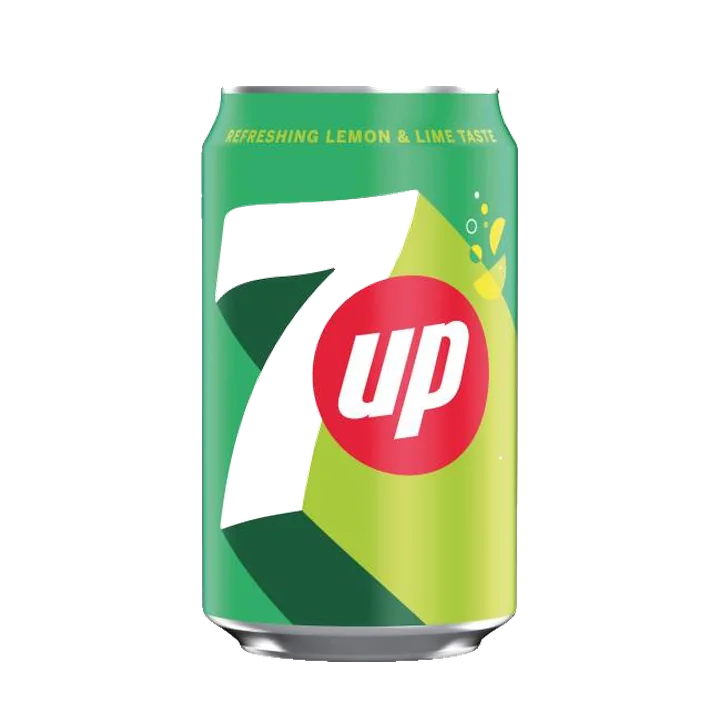
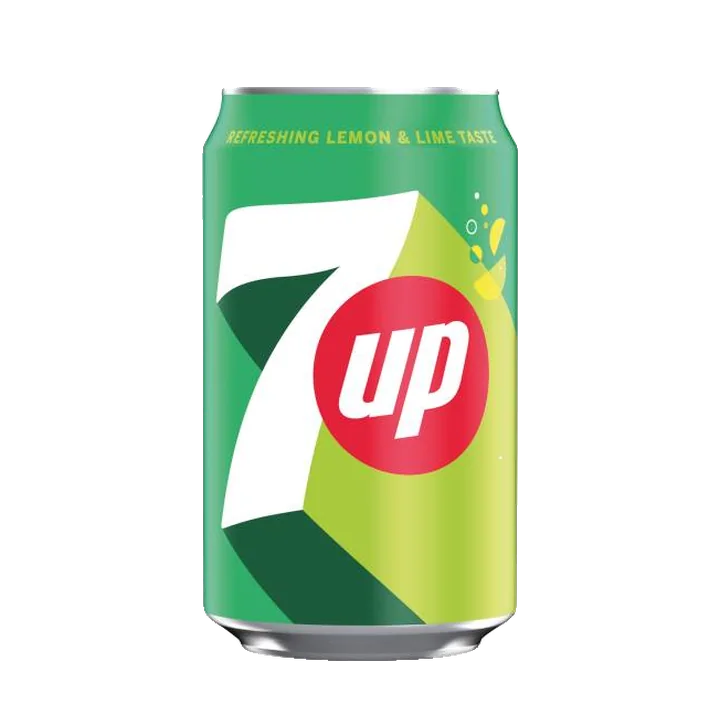
feat: close-up category badges, box meal and water pictures, whole 7up can
- Category badges each show one dish cropped tight (web/public/badges), so
  it fills the round badge; the enamel's gloss sits under the food instead
  of fogging it. Box Meals and Wings get pictures that differ from Burger
  Meals and Boneless.
- Box meals had no photo: each is its burger meal photo with wings in
  front, as the box has chips, a drink and 3 wings.
- Water: a plain bottle with no brand (assets-src/water-bottle.svg).
- 7up: the background remover had taken the can's white "7", so the card
  showed through. The cut-out is filled out to the can's outline.

assets-src/make_extras.py makes all of these.

diff --git a/web/app/components/badges/BadgeGrid.js b/web/app/components/badges/BadgeGrid.js
@@ -1,8 +1,12 @@
 "use client";
 import ShinyBadge from "./ShinyBadge";
 
-// A badge shows the first dish in its category that has a photo.
-const badgeImage = (category) => category.items.find((item) => item.image)?.image ?? null;
+// Each category has its own close-up (assets-src/make_extras.py: one dish,
+// cropped tight so it fills the round badge). A category the owner adds later
+// shows its first dish with a photo.
+const BADGE_ART = new Set(["burgers", "wraps", "bbq", "ribs", "peri-peri", "burger-meals", "box-meals", "wings-chicken", "boneless", "sides"]);
+const badgeImage = (category) =>
+  BADGE_ART.has(category.id) ? `/badges/${category.id}.webp` : (category.items.find((item) => item.image)?.image ?? null);
 
 // Badges sweep one after another, so the grid shimmers rather than flashes.
 const SWEEP_STAGGER_S = 0.45;

diff --git a/web/app/components/badges/ShinyBadge.js b/web/app/components/badges/ShinyBadge.js
@@ -66,11 +66,11 @@ export default function ShinyBadge({ category, image, isActive, onSelect, sweepD
             <img
               src={image}
               alt=""
-              width={720}
-              height={720}
+              width={264}
+              height={264}
               loading="lazy"
               draggable={false}
-              className="relative z-[1] size-[96%] translate-y-[4%] object-contain drop-shadow-[0_4px_5px_rgb(45_28_21/0.35)]"
+              className="relative z-[2] size-full object-contain drop-shadow-[0_3px_4px_rgb(45_28_21/0.35)]"
             />
           ) : (
             <Icon

diff --git a/web/app/globals.css b/web/app/globals.css
@@ -352,11 +352,12 @@ main.page-frame :where([class*="bg-"], [class*="bg-"] *) {
 .badge-enamel[data-active="true"] {
   background: radial-gradient(circle at 50% 40%, #3b2419, var(--color-roast-800) 65%, var(--color-roast-950));
 }
+/* The gloss lies on the enamel, under the dish: over it, it fogged the food. */
 .badge-enamel::before {
   content: "";
   position: absolute;
   inset: 0;
-  z-index: 2;
+  z-index: 1;
   border-radius: inherit;
   pointer-events: none;
   background:

diff --git a/assets-src/make_extras.py b/assets-src/make_extras.py
@@ -1,0 +1,159 @@
+"""Pictures the shop has no photo for yet, made from what we do have.
+
+- 7up: the Uber Eats photo's white "7" sits on a white background, so the
+  background remover took it too and the card showed through the can. A can
+  is convex, so the cut-out is filled out to its convex hull.
+- Water: a plain bottle with no brand, drawn in water-bottle.svg. Render it
+  first (see below), this script places it like every other dish.
+- Box meals: each is the burger meal photo (burger, chips, can) with wings in
+  front, as the box has "chips, drink & 3 wings". The variety box uses the
+  2 piece chicken meal.
+- Category badges: one dish per category, cropped tight and centred, so it
+  fills the round badge instead of sitting small at the bottom of it.
+  Output: web/public/badges/{category id}.webp
+
+Render the bottle before running (from web/, needs Playwright):
+  node scripts/render-svg.mjs ../assets-src/water-bottle.svg ../assets-src/.water-bottle.png
+Then: python assets-src/make_extras.py
+"""
+import os
+
+from PIL import Image, ImageChops, ImageDraw, ImageFilter
+from rembg import new_session, remove
+
+from make_food import OUT, ROOT, SIZE, place
+
+HERE = os.path.dirname(os.path.abspath(__file__))
+UBER = os.path.join(ROOT, "menu item images")
+BADGES = os.path.join(ROOT, "web", "public", "badges")
+
+# Box meal slug -> the meal photo it is built on.
+BOX_MEALS = {
+    "chicken-fillet-burger-box-meal": "chicken-fillet-burger-meal",
+    "1-4-pounder-burger-box-meal": "cheese-burger-meal",  # one beef patty
+    "1-2-pounder-burger-box-meal": "1-2-pounder-burger-meal",
+    "spicy-chicken-burger-box-meal": "spicy-chicken-burger-meal",
+    "fusion-flex-burger-box-meal": "fusion-flex-burger-meal",  # already boxed, with wings
+    "flex-variety-box": "2-piece-chicken-meal",
+}
+WINGS = "4-spicy-wings"
+HAS_WINGS = {"fusion-flex-burger-meal"}
+WINGS_WIDTH = 0.36  # x the meal photo's width
+WINGS_OVERLAP = 0.28  # how far the wings tuck under the meal, x their width
+
+# Category id (app/lib/menuBoard.js) -> the dish its badge shows.
+BADGE_DISHES = {
+    "burgers": "chicken-fillet-burger",
+    "wraps": "chicken-wrap",
+    "bbq": "bbq-fillet-burger",
+    "ribs": "bbq-lamb-ribs-x-3",
+    "peri-peri": "peri-peri-burger",
+    "burger-meals": "chicken-fillet-burger-meal",
+    "box-meals": "flex-variety-box",
+    "wings-chicken": "2-piece-chicken",
+    "boneless": "5-chicken-strips",
+    "sides": "onion-ringas-x-8",
+}
+BADGE_SIZE = 264  # 84px badge at 3x
+BADGE_FILL = 0.9  # the dish's longer side, x the badge
+
+
+def load(slug: str) -> Image.Image:
+    im = Image.open(os.path.join(OUT, f"{slug}.webp")).convert("RGBA")
+    return im.crop(im.getbbox())
+
+
+def save(im: Image.Image, slug: str) -> None:
+    place(im).save(os.path.join(OUT, f"{slug}.webp"), quality=84, method=6)
+    print("ok", slug)
+
+
+def cross(o: tuple, a: tuple, b: tuple) -> int:
+    return (a[0] - o[0]) * (b[1] - o[1]) - (a[1] - o[1]) * (b[0] - o[0])
+
+
+def convex_hull(points: list) -> list:
+    """Andrew's monotone chain."""
+    points = sorted(set(points))
+    lower, upper = [], []
+    for p in points:
+        while len(lower) >= 2 and cross(lower[-2], lower[-1], p) <= 0:
+            lower.pop()
+        lower.append(p)
+    for p in reversed(points):
+        while len(upper) >= 2 and cross(upper[-2], upper[-1], p) <= 0:
+            upper.pop()
+        upper.append(p)
+    return lower[:-1] + upper[:-1]
+
+
+def make_7up(session) -> None:
+    src = Image.open(os.path.join(UBER, "7up.jpeg")).convert("RGB")
+    cut = remove(src, session=session, post_process_mask=True)
+    alpha = cut.getchannel("A")
+    px = alpha.load()
+    edge = []
+    for y in range(alpha.height):
+        row = [x for x in range(alpha.width) if px[x, y] > 128]
+        if row:
+            edge += [(row[0], y), (row[-1], y)]
+    hull = Image.new("L", alpha.size, 0)
+    ImageDraw.Draw(hull).polygon(convex_hull(edge), fill=255)
+    hull = hull.filter(ImageFilter.MinFilter(3)).filter(ImageFilter.GaussianBlur(0.8))
+    can = src.convert("RGBA")
+    can.putalpha(ImageChops.lighter(alpha, hull))
+    save(can, "7up")
+
+
+def make_water() -> None:
+    bottle = Image.open(os.path.join(HERE, ".water-bottle.png")).convert("RGBA")
+    save(bottle.crop(bottle.getbbox()), "water")
+
+
+def make_box(meal_slug: str) -> Image.Image:
+    meal = load(meal_slug)
+    if meal_slug in HAS_WINGS:
+        return meal
+    wings = load(WINGS)
+    w = round(meal.width * WINGS_WIDTH)
+    wings = wings.resize((w, round(wings.height * w / wings.width)), Image.LANCZOS)
+    # The wings sit in front, low and right of centre, overlapping the meal.
+    width = meal.width + round(w * (1 - WINGS_OVERLAP)) - round(meal.width * 0.35)
+    width = max(width, meal.width)
+    height = meal.height + round(wings.height * 0.35)
+    canvas = Image.new("RGBA", (width, height), (0, 0, 0, 0))
+    canvas.alpha_composite(meal, (0, 0))
+    shadow = Image.new("RGBA", (w, wings.height), (0, 0, 0, 0))
+    ImageDraw.Draw(shadow).ellipse((w * 0.08, wings.height * 0.7, w * 0.92, wings.height * 1.0), fill=(40, 20, 8, 90))
+    x = width - w
+    y = height - wings.height
+    canvas.alpha_composite(shadow.filter(ImageFilter.GaussianBlur(8)), (x, y))
+    canvas.alpha_composite(wings, (x, y))
+    return canvas
+
+
+def make_badge(slug: str, category: str) -> None:
+    dish = load(slug)
+    side = round(BADGE_SIZE * BADGE_FILL)
+    scale = side / max(dish.width, dish.height)
+    dish = dish.resize((round(dish.width * scale), round(dish.height * scale)), Image.LANCZOS)
+    canvas = Image.new("RGBA", (BADGE_SIZE, BADGE_SIZE), (0, 0, 0, 0))
+    # Centred, a touch low: the eye reads a dish's middle as above its base.
+    top = (BADGE_SIZE - dish.height) // 2 + round(BADGE_SIZE * 0.03)
+    canvas.alpha_composite(dish, ((BADGE_SIZE - dish.width) // 2, top))
+    canvas.save(os.path.join(BADGES, f"{category}.webp"), quality=88, method=6)
+    print("badge", category)
+
+
+def main() -> None:
+    os.makedirs(BADGES, exist_ok=True)
+    make_7up(new_session("isnet-general-use"))
+    make_water()
+    for slug, meal in BOX_MEALS.items():
+        save(make_box(meal), slug)
+    for category, slug in BADGE_DISHES.items():
+        make_badge(slug, category)
+
+
+if __name__ == "__main__":
+    main()
